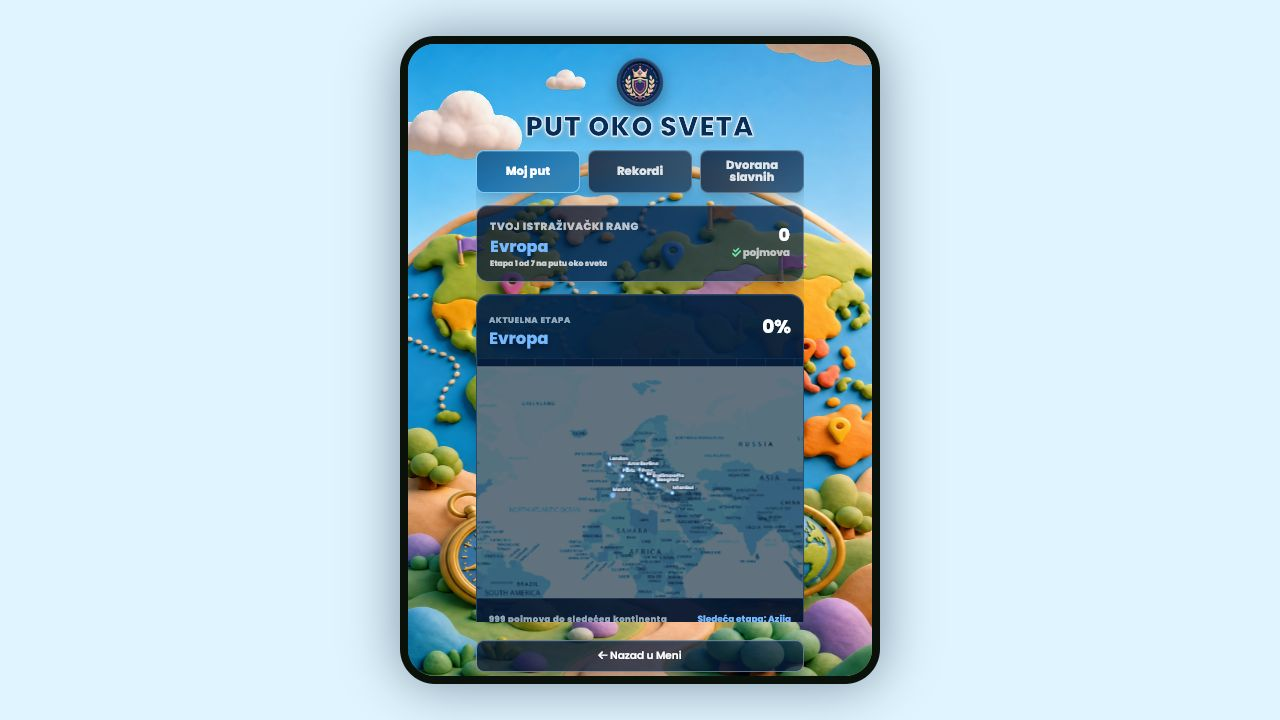
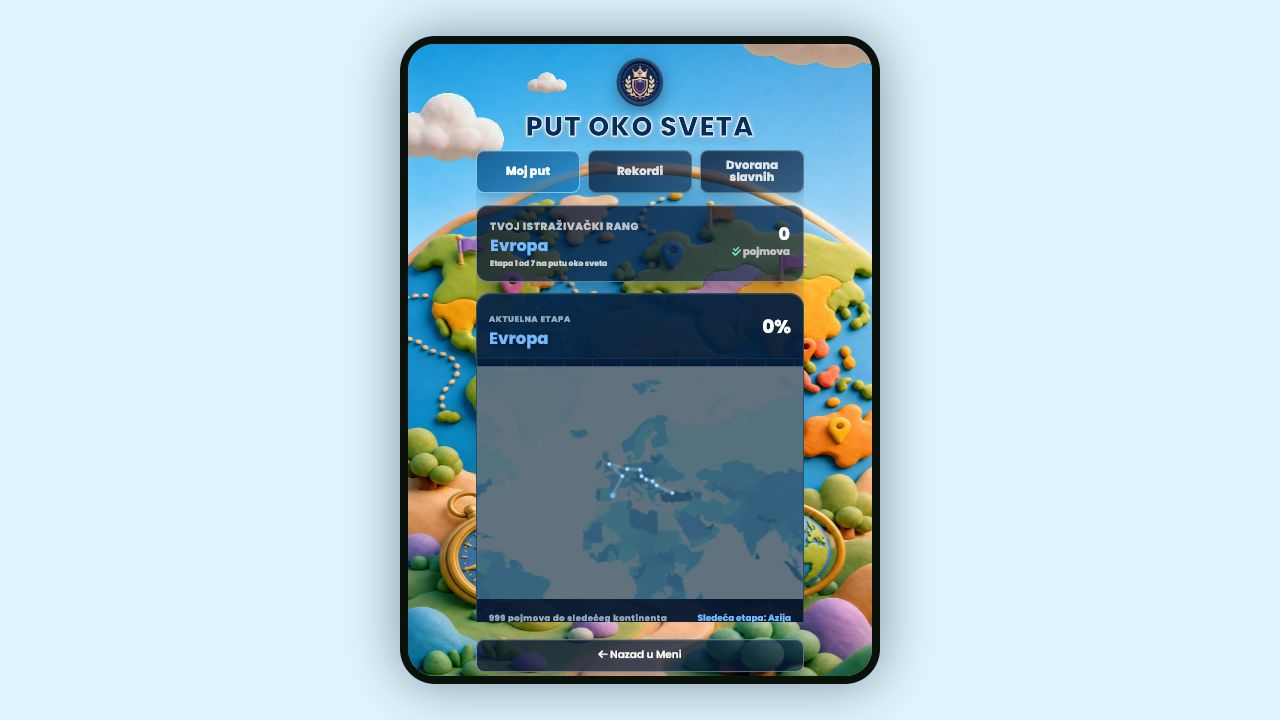
20

diff --git a/www/kvartalninivo.js b/www/kvartalninivo.js
@@ -13,6 +13,9 @@ const KvartalniNivoManager = {
             fokus: [1100, 360, 1.95],
             gradovi: [
                 [1012, 416, "Madrid"], [1043, 354, "Pariz"], [1001, 315, "London"], [1059, 331, "Amsterdam"], [1100, 333, "Berlin"], [1105, 354, "Prag"], [1120, 365, "Beč"], [1140, 370, "Budimpešta"], [1154, 384, "Beograd"], [1204, 408, "Istanbul"]
+            ],
+            gradoviDetalj: [
+                [320, 600, "Madrid"], [450, 510, "Pariz"], [345, 390, "London"], [474, 455, "Amsterdam"], [620, 450, "Berlin"], [640, 500, "Prag"], [690, 530, "Beč"], [740, 540, "Budimpešta"], [760, 585, "Beograd"], [890, 610, "Istanbul"]
             ]
         },
         {
@@ -58,7 +61,7 @@ const KvartalniNivoManager = {
     introTajmer: null,
     ulazakTajmer: null,
     otvaranjeUToku: false,
-    mapaTransform: { nivoId: null, skala: 1, x: 0, y: 0, postavljena: false },
+    mapaTransform: { nivoId: null, skala: 1, x: 0, y: 0, postavljena: false, detaljEvropa: false },
 
     // Ovde se smeštaju podaci koji stignu iz MongoDB/Servera
     serverPodaci: {
@@ -362,6 +365,7 @@ const KvartalniNivoManager = {
         const nivo = info.trenutni;
         const procenat = this.procenatEtape(nivo);
         const tacke = nivo.gradovi.map(([x, y]) => `${x},${y}`).join(' ');
+        const detaljneTacke = (nivo.gradoviDetalj || []).map(([x, y]) => `${x},${y}`).join(' ');
         const sledecaEtapa = info.sledeci
             ? `Sledeća etapa: ${info.sledeci.ime}`
             : 'Završio si put oko sveta!';
@@ -390,17 +394,26 @@ const KvartalniNivoManager = {
                             <feMerge><feMergeNode in="zamagljenje" /><feMergeNode in="SourceGraphic" /></feMerge>
                         </filter>
                     </defs>
-                    <image class="put-svetska-mapa" href="assets/put-oko-sveta-svetska-mapa.jpg" width="2048" height="1024" />
+                    <image class="put-svetska-mapa" href="assets/put-oko-sveta-svetska-mapa-bez-teksta-v1.png" width="2048" height="1024" />
                     <rect class="put-svetska-mapa-izmaglica" width="2048" height="1024" />
                     <polyline class="put-linija put-linija-pozadina" points="${tacke}" pathLength="100" />
                     <polyline class="put-linija put-linija-napredak" points="${tacke}" pathLength="100" filter="url(#sjaj-${nivo.id})" />
                     ${nivo.gradovi.map(([x, y, grad], indeks) => `
                         <g class="put-stajaliste ${indeks === 0 ? 'pocetak' : ''}">
+                            <title>${grad}</title>
                             <circle cx="${x}" cy="${y}" r="${indeks === 0 ? 7 : 5}" />
-                            <text x="${x}" y="${y - 13}">${grad}</text>
                         </g>
                     `).join('')}
                 </svg>
+                ${nivo.id === 0 ? `
+                    <svg id="put-oko-sveta-mapa-evropa-detalj" class="put-oko-sveta-mapa put-evropa-detalj" viewBox="0 0 1536 1024" role="img" aria-label="Detaljna mapa Evrope">
+                        <image class="put-svetska-mapa" href="assets/put-oko-sveta-evropa-detalj-v1.png" width="1536" height="1024" />
+                        <rect class="put-svetska-mapa-izmaglica" width="1536" height="1024" />
+                        <polyline class="put-linija put-linija-pozadina" points="${detaljneTacke}" pathLength="100" />
+                        <polyline class="put-linija put-linija-napredak" points="${detaljneTacke}" pathLength="100" filter="url(#sjaj-${nivo.id})" />
+                        ${nivo.gradoviDetalj.map(([x, y, grad], indeks) => `<g class="put-stajaliste ${indeks === 0 ? 'pocetak' : ''}"><title>${grad}</title><circle cx="${x}" cy="${y}" r="${indeks === 0 ? 7 : 5}" /></g>`).join('')}
+                    </svg>
+                ` : ''}
                 </div>
                 <div class="put-oko-sveta-route-footer">
                     <span>${doCilja}</span>
@@ -412,9 +425,28 @@ const KvartalniNivoManager = {
 
     primeniMapuTransform: function() {
         const mapa = document.getElementById('put-oko-sveta-mapa');
+        const detaljEvrope = document.getElementById('put-oko-sveta-mapa-evropa-detalj');
+        const viewport = document.getElementById('put-oko-sveta-viewport');
         if (!mapa) return;
         const stanje = this.mapaTransform;
         mapa.style.transform = `translate(${stanje.x}px, ${stanje.y}px) scale(${stanje.skala})`;
+        if (detaljEvrope) detaljEvrope.style.transform = `translate(${stanje.x}px, ${stanje.y}px) scale(${stanje.skala})`;
+        if (viewport) viewport.classList.toggle('evropa-detalj-active', Boolean(stanje.detaljEvropa));
+    },
+
+    prebaciNaDetaljEvrope: function(nivo, viewport) {
+        if (nivo.id !== 0 || this.mapaTransform.detaljEvropa || this.mapaTransform.skala < 2.25) return;
+        const sirina = viewport.clientWidth;
+        const visina = viewport.clientHeight;
+        const osnovnaVisina = sirina * (2 / 3);
+        const skala = 1.16;
+        this.mapaTransform = {
+            ...this.mapaTransform,
+            detaljEvropa: true,
+            skala,
+            x: (sirina / 2) - ((690 / 1536) * sirina * skala),
+            y: (visina / 2) - ((530 / 1024) * osnovnaVisina * skala)
+        };
     },
 
     pripremiInteraktivnuMapu: function(info) {
@@ -438,7 +470,8 @@ const KvartalniNivoManager = {
                 skala,
                 x: (sirina / 2) - ((fokusX / 2048) * sirina * skala),
                 y: (visina / 2) - ((fokusY / 1024) * osnovnaVisina * skala),
-                postavljena: true
+                postavljena: true,
+                detaljEvropa: false
             };
         }
         this.primeniMapuTransform();
@@ -470,6 +503,7 @@ const KvartalniNivoManager = {
                 this.mapaTransform.y += dogadjaj.clientY - prethodnaTacka.y;
             }
             prethodnaTacka = { x: dogadjaj.clientX, y: dogadjaj.clientY };
+            this.prebaciNaDetaljEvrope(nivo, viewport);
             this.primeniMapuTransform();
         });
         const zavrsiDodir = dogadjaj => {
@@ -481,6 +515,7 @@ const KvartalniNivoManager = {
         viewport.addEventListener('wheel', dogadjaj => {
             dogadjaj.preventDefault();
             this.mapaTransform.skala = Math.max(1, Math.min(4, this.mapaTransform.skala * (dogadjaj.deltaY < 0 ? 1.12 : 0.88)));
+            this.prebaciNaDetaljEvrope(nivo, viewport);
             this.primeniMapuTransform();
         }, { passive: false });
     },

diff --git a/www/style.css b/www/style.css
@@ -15789,6 +15789,21 @@ body[data-tema] #kvartalni-nivo-screen .put-oko-sveta-map {
     will-change: transform;
 }
 
+body[data-tema] #kvartalni-nivo-screen .put-evropa-detalj {
+    position: absolute;
+    inset: 0 auto auto 0;
+    opacity: 0;
+    pointer-events: none;
+}
+
+body[data-tema] #kvartalni-nivo-screen .put-oko-sveta-viewport.evropa-detalj-active #put-oko-sveta-mapa {
+    opacity: 0;
+}
+
+body[data-tema] #kvartalni-nivo-screen .put-oko-sveta-viewport.evropa-detalj-active .put-evropa-detalj {
+    opacity: 1;
+}
+
 body[data-tema] #kvartalni-nivo-screen .put-oko-sveta-viewport {
     position: relative;
     height: 15rem;
